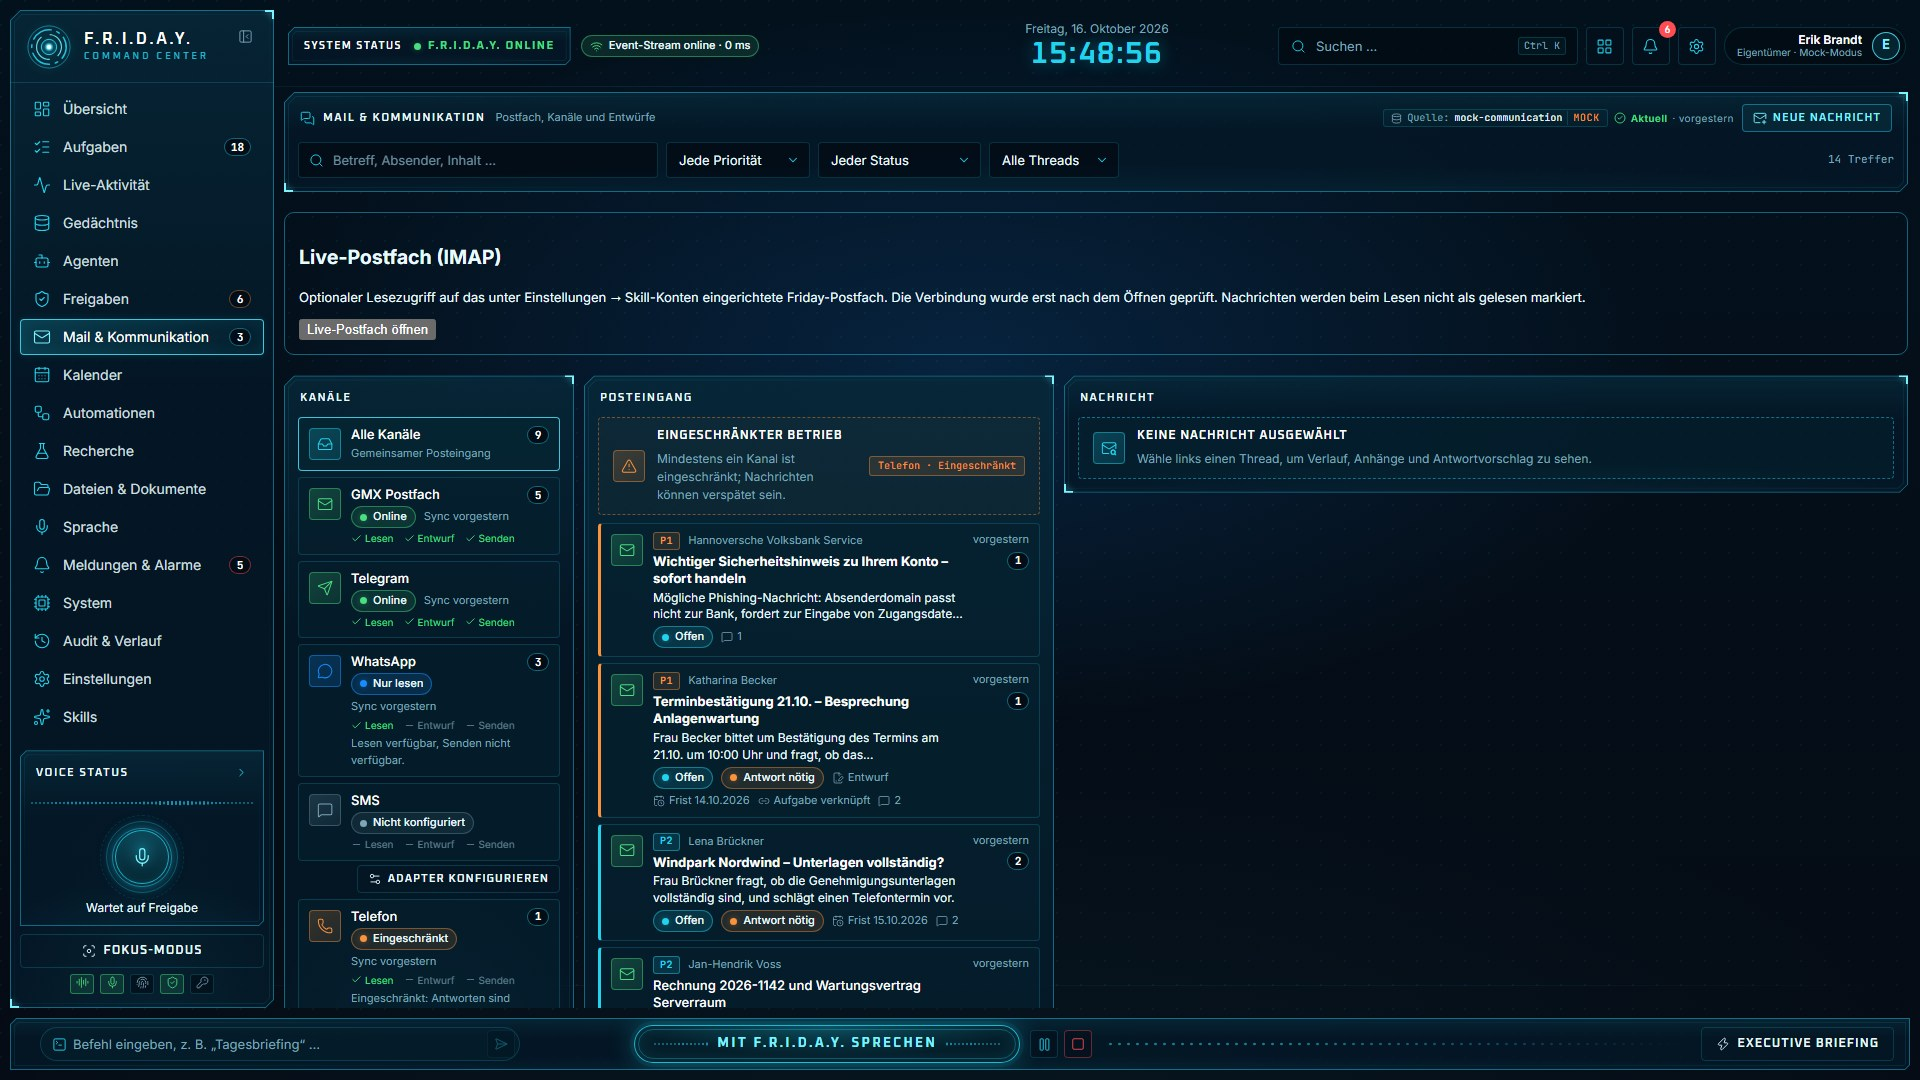
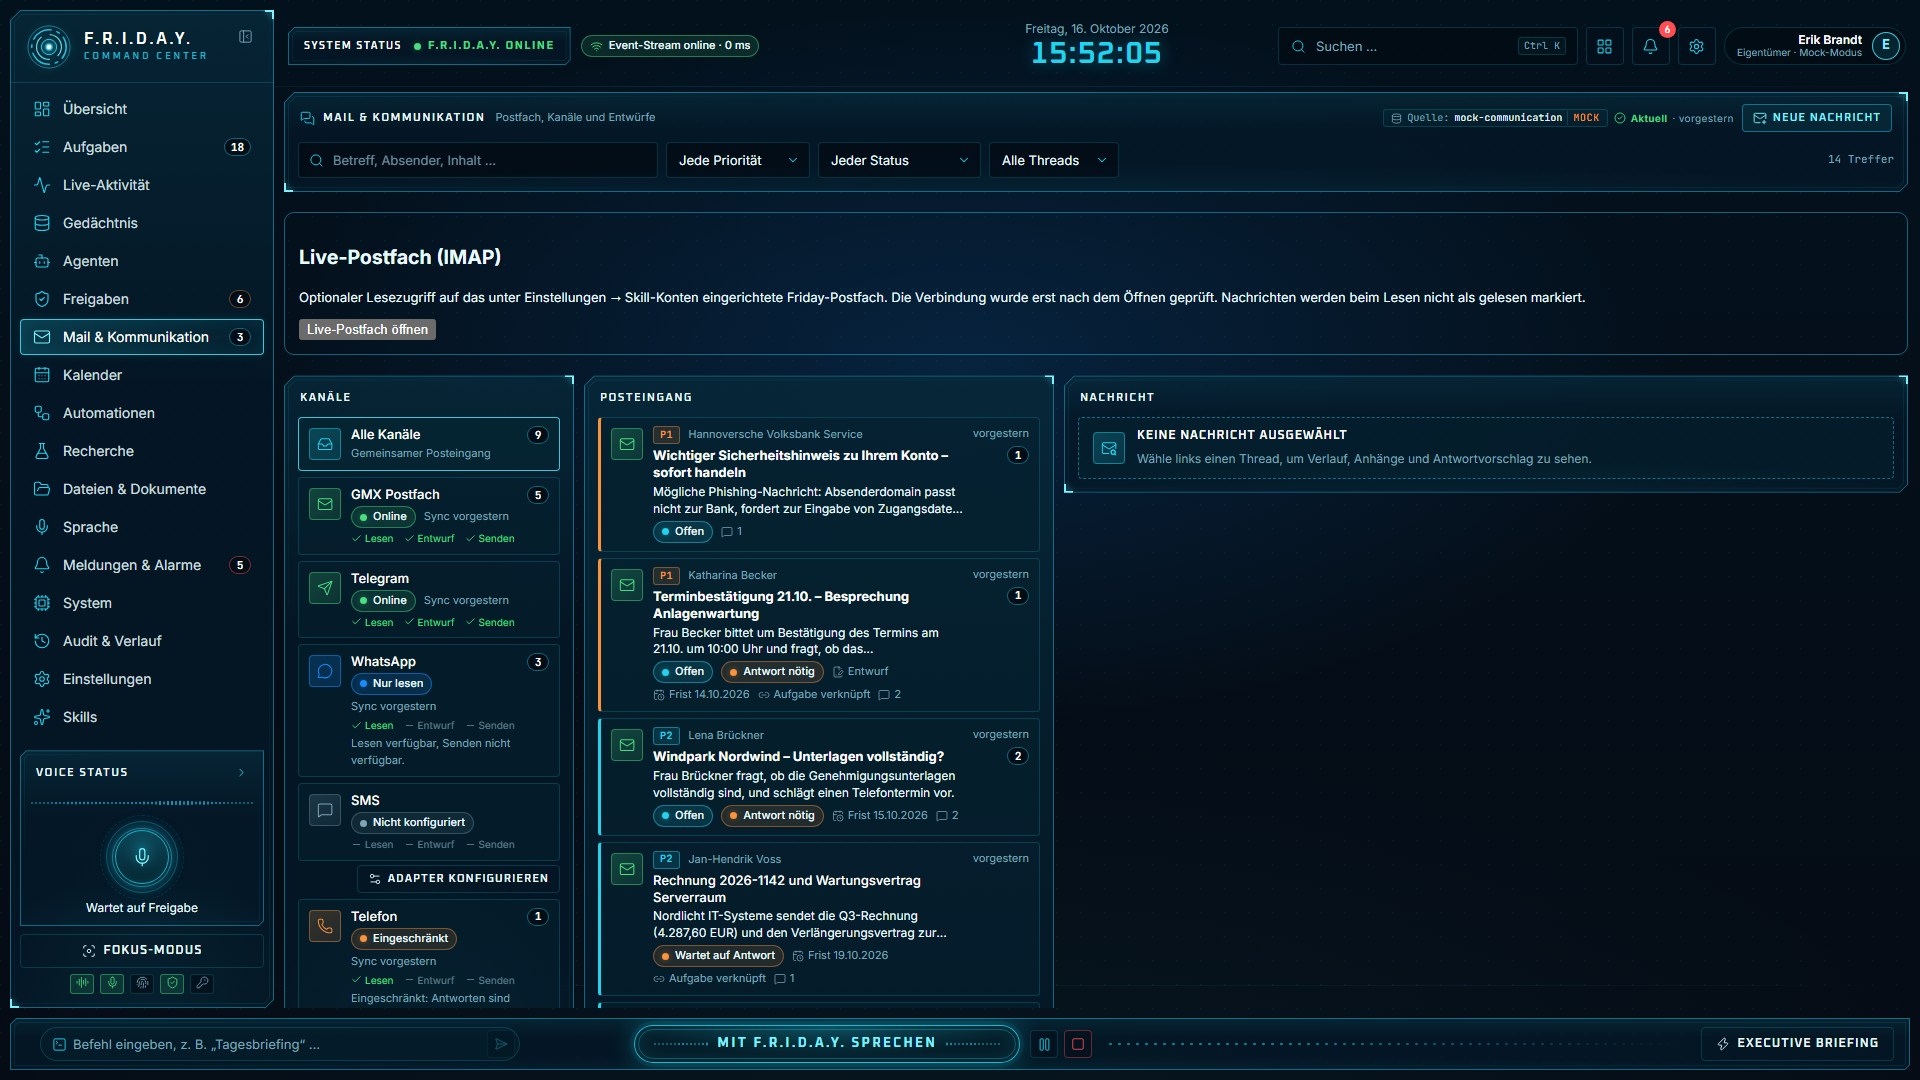
Keep communication gallery clear with demo limitation disclosed

diff --git a/README.md b/README.md
@@ -4,7 +4,7 @@ F.R.I.D.A.Y. ist ein lokales Command Center für den Hermes Agent: ein Windows-I
 
 ## Dashboard im Überblick
 
-Die Bilder zeigen den aktuellen Desktop-Build im Vollbildformat 1920 × 1080 mit synthetischen Beispieldaten. Für die Galerie sind alle Dienste der Demo online; kurzlebige Cache-Hinweise und ein optionaler, nicht eingerichteter Modell-Eintrag sind ausgeblendet. Ein Klick öffnet das jeweilige Bild in voller Auflösung. Die Einführung ist nur auf dem letzten Bild zu sehen.
+Die Bilder zeigen den aktuellen Desktop-Build im Vollbildformat 1920 × 1080 mit synthetischen Beispieldaten. Für die Galerie sind alle Dienste der Demo online; kurzlebige Cache-Hinweise, ein optionaler, nicht eingerichteter Modell-Eintrag und der Sammelhinweis zu einem eingeschränkten Kommunikationskanal sind ausgeblendet. Der Telefonkanal bleibt als eingeschränkt gekennzeichnet. Ein Klick öffnet das jeweilige Bild in voller Auflösung. Die Einführung ist nur auf dem letzten Bild zu sehen.
 
 <table>
 <tr><td><a href="docs/screenshots/uebersicht.jpg"><img src="docs/screenshots/uebersicht.jpg" width="540" alt="Übersicht"><br>Übersicht</a></td><td><a href="docs/screenshots/aufgaben.jpg"><img src="docs/screenshots/aufgaben.jpg" width="540" alt="Aufgaben"><br>Aufgaben</a></td><td><a href="docs/screenshots/live-aktivitaet.jpg"><img src="docs/screenshots/live-aktivitaet.jpg" width="540" alt="Live-Aktivität"><br>Live-Aktivität</a></td></tr>
